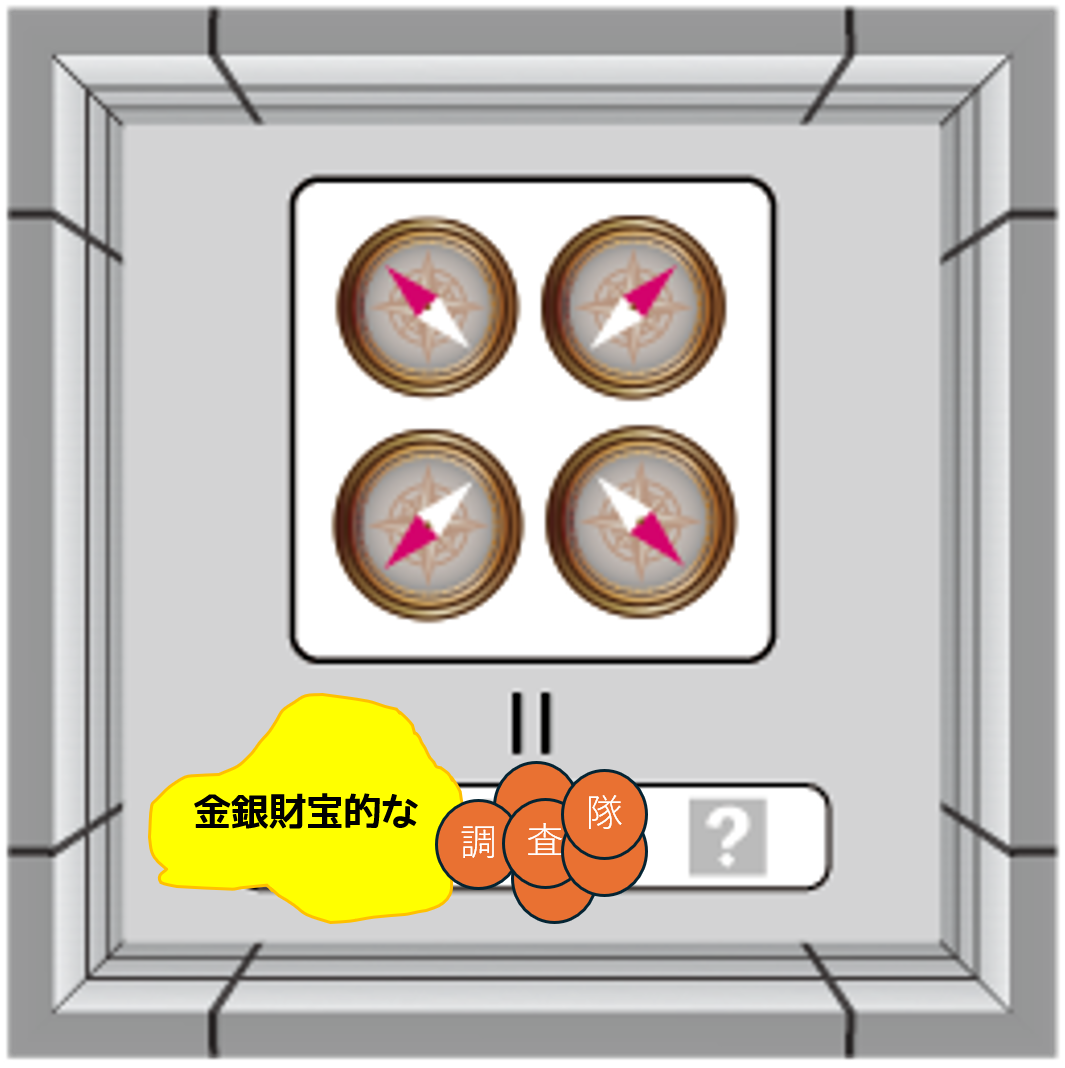
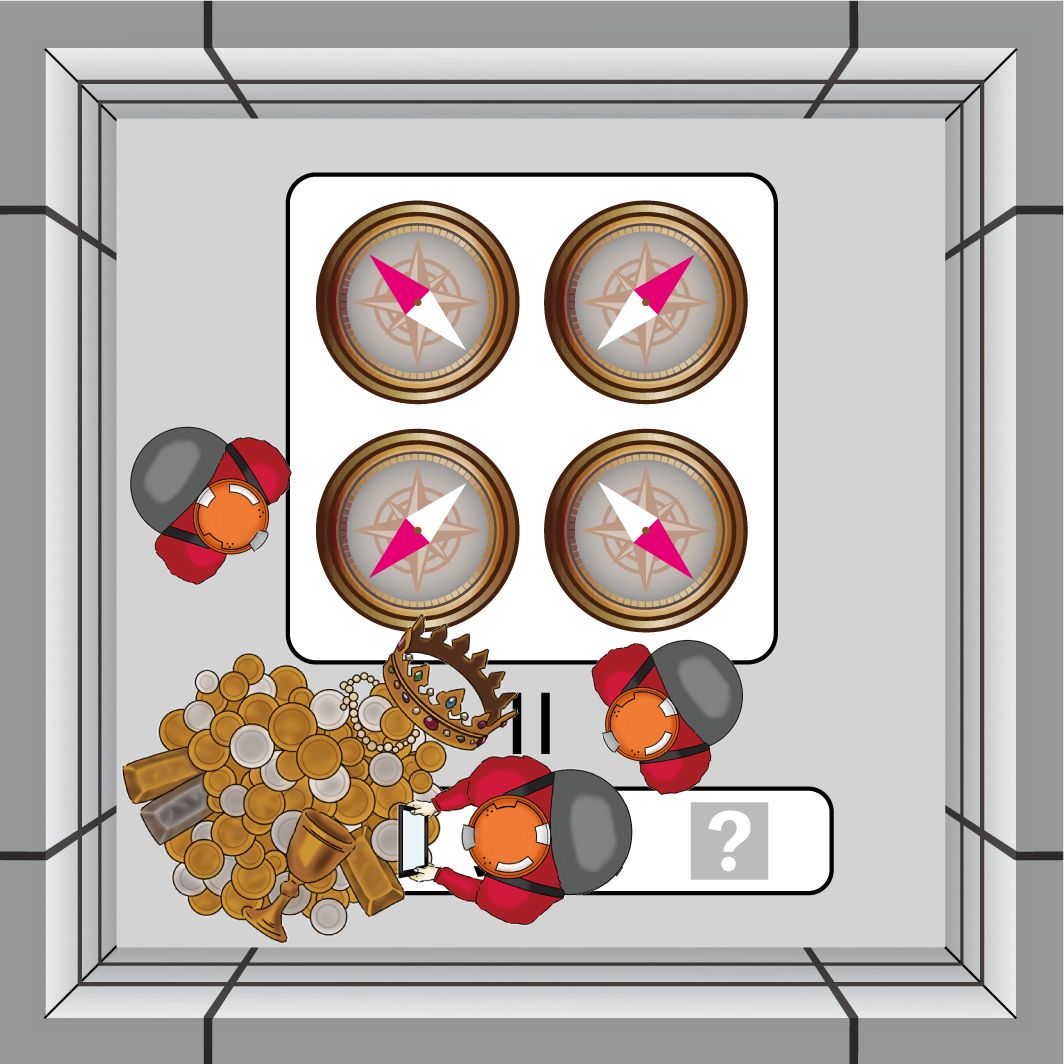
Update website

diff --git a/hints.html b/hints.html
@@ -11,10 +11,14 @@
   </head>
   <body>
     <main>
-      <a class="back-link" href="./index.html">← 本編へ</a>
+      <a class="back-link" href="./index.html"><b>← 本編へ</b></a>
       <header>
-        <p class="brand">Projectmapping</p>
-        <h1>ヒント</h1>
+        <h2 class="hint-heading">
+          <span class="brand-initial brand-initial--p">P</span>roject<span
+            class="brand-initial brand-initial--m"
+            >M</span
+          >apping ヒント
+        </h2>
       </header>
       <div class="area-picker">
         <label for="area-select">Areaを選ぶ</label>

diff --git a/hints.css b/hints.css
@@ -28,3 +28,8 @@ details[open] > summary::after { content: '−'; }
 :focus-visible { outline: 3px solid #373431; outline-offset: 4px; }
 ::selection { background: #5fc1c7; }
 #hint-status:empty { display: none; }
+
+/* タイトルはAreaの配色と分け、頭文字だけを強調する。 */
+.hint-heading { color: #000; border-bottom-color: #000; }
+.hint-heading .brand-initial--p { color: #dd8100; }
+.hint-heading .brand-initial--m { color: #0f7abf; }
